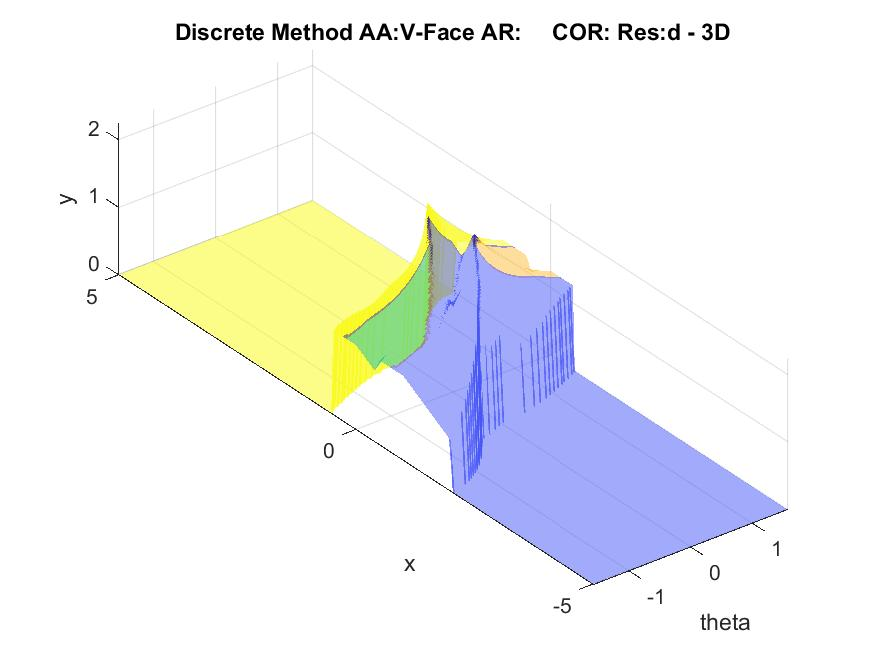
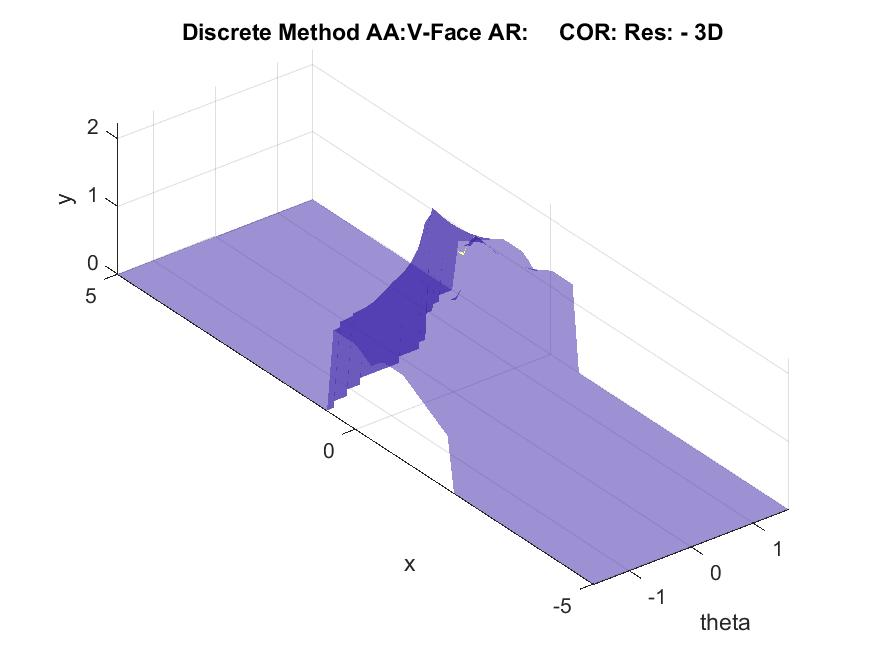
Fixes to ND code, disabled damMerges for now

diff --git a/scripts/pyrNDTimer.m b/scripts/pyrNDTimer.m
@@ -1,4 +1,5 @@
 clear all
+close all
 %Parameters can vary across multiple simulations
 Params.aspectRatio=1/2;
 Params.rotationCenter=0;
@@ -8,10 +9,11 @@ Params.dimensions=[1 3 4];
 %Specify connector geometries (use get3DPyramidConnector as a guide)
 connPair=get3DPyramidConnector(Params);
 %Run flooding algorithm to get the AA
-resolutions=zeros(1,20);
-aas=zeros(1,20);
-cpuTimes=zeros(1,20);
-for r=1:20
+maxSteps=20;
+resolutions=zeros(1,maxSteps);
+aas=zeros(1,maxSteps);
+cpuTimes=zeros(1,maxSteps);
+for r=1:maxSteps
     resolutions(r)=18+2*r;
     Params.resolution=resolutions(r);
     cpuBefore=cputime;

diff --git a/source/aaByFloodND.m b/source/aaByFloodND.m
@@ -30,15 +30,15 @@ cellSize = calculateCellSize(Params);
 
 points=generateHeightMapDims(connPair,Params);
 
-wsUnmerged=floodingSolverND(points);
-
+%wsUnmerged=floodingSolverND(points);
+wsUnmerged=double(watershed(points)+2);
 neighborMetrics=populateMergeMetrics(points,wsUnmerged);
 
 centerWS=Params.resolution/2+1;
 centerInd=num2cell(centerWS*ones(1,numel(Params.dimensions)));
 
 wsMerged=mergeWatershedsByDepthND(points,wsUnmerged,Params.tolerance); 
-wsMerged=mergeDamsND(points,wsMerged); 
+%wsMerged=mergeDamsND(points,wsMerged); 
 
 wsOfInterest=wsMerged(centerInd{:});
 

diff --git a/source/findWSBoundaryND.m b/source/findWSBoundaryND.m
@@ -19,6 +19,6 @@ edgesInWS=edges & isInWS;
 damsNeighbors = convn(double(damsPoints),ones(convSize{:}),'same')>0;
 edgesNoDamNeighbor= edgesInWS & ~damsNeighbors;
 
-boundary = edgesNoDamNeighbor | damsPoints;
-
+%boundary = edgesNoDamNeighbor | damsPoints;
+boundary = damsPoints;
 end

diff --git a/scripts/vface2DTimer.m b/scripts/vface2DTimer.m
@@ -1,6 +1,7 @@
 clear all
-DesignParams.aspectRatio=1/4;
-DesignParams.rotationCenter=-1/2;
+close all
+DesignParams.aspectRatio=1;
+DesignParams.rotationCenter=0;
 maxSteps=15;
 resolutions=zeros(1,maxSteps);
 aas=zeros(1,maxSteps);
